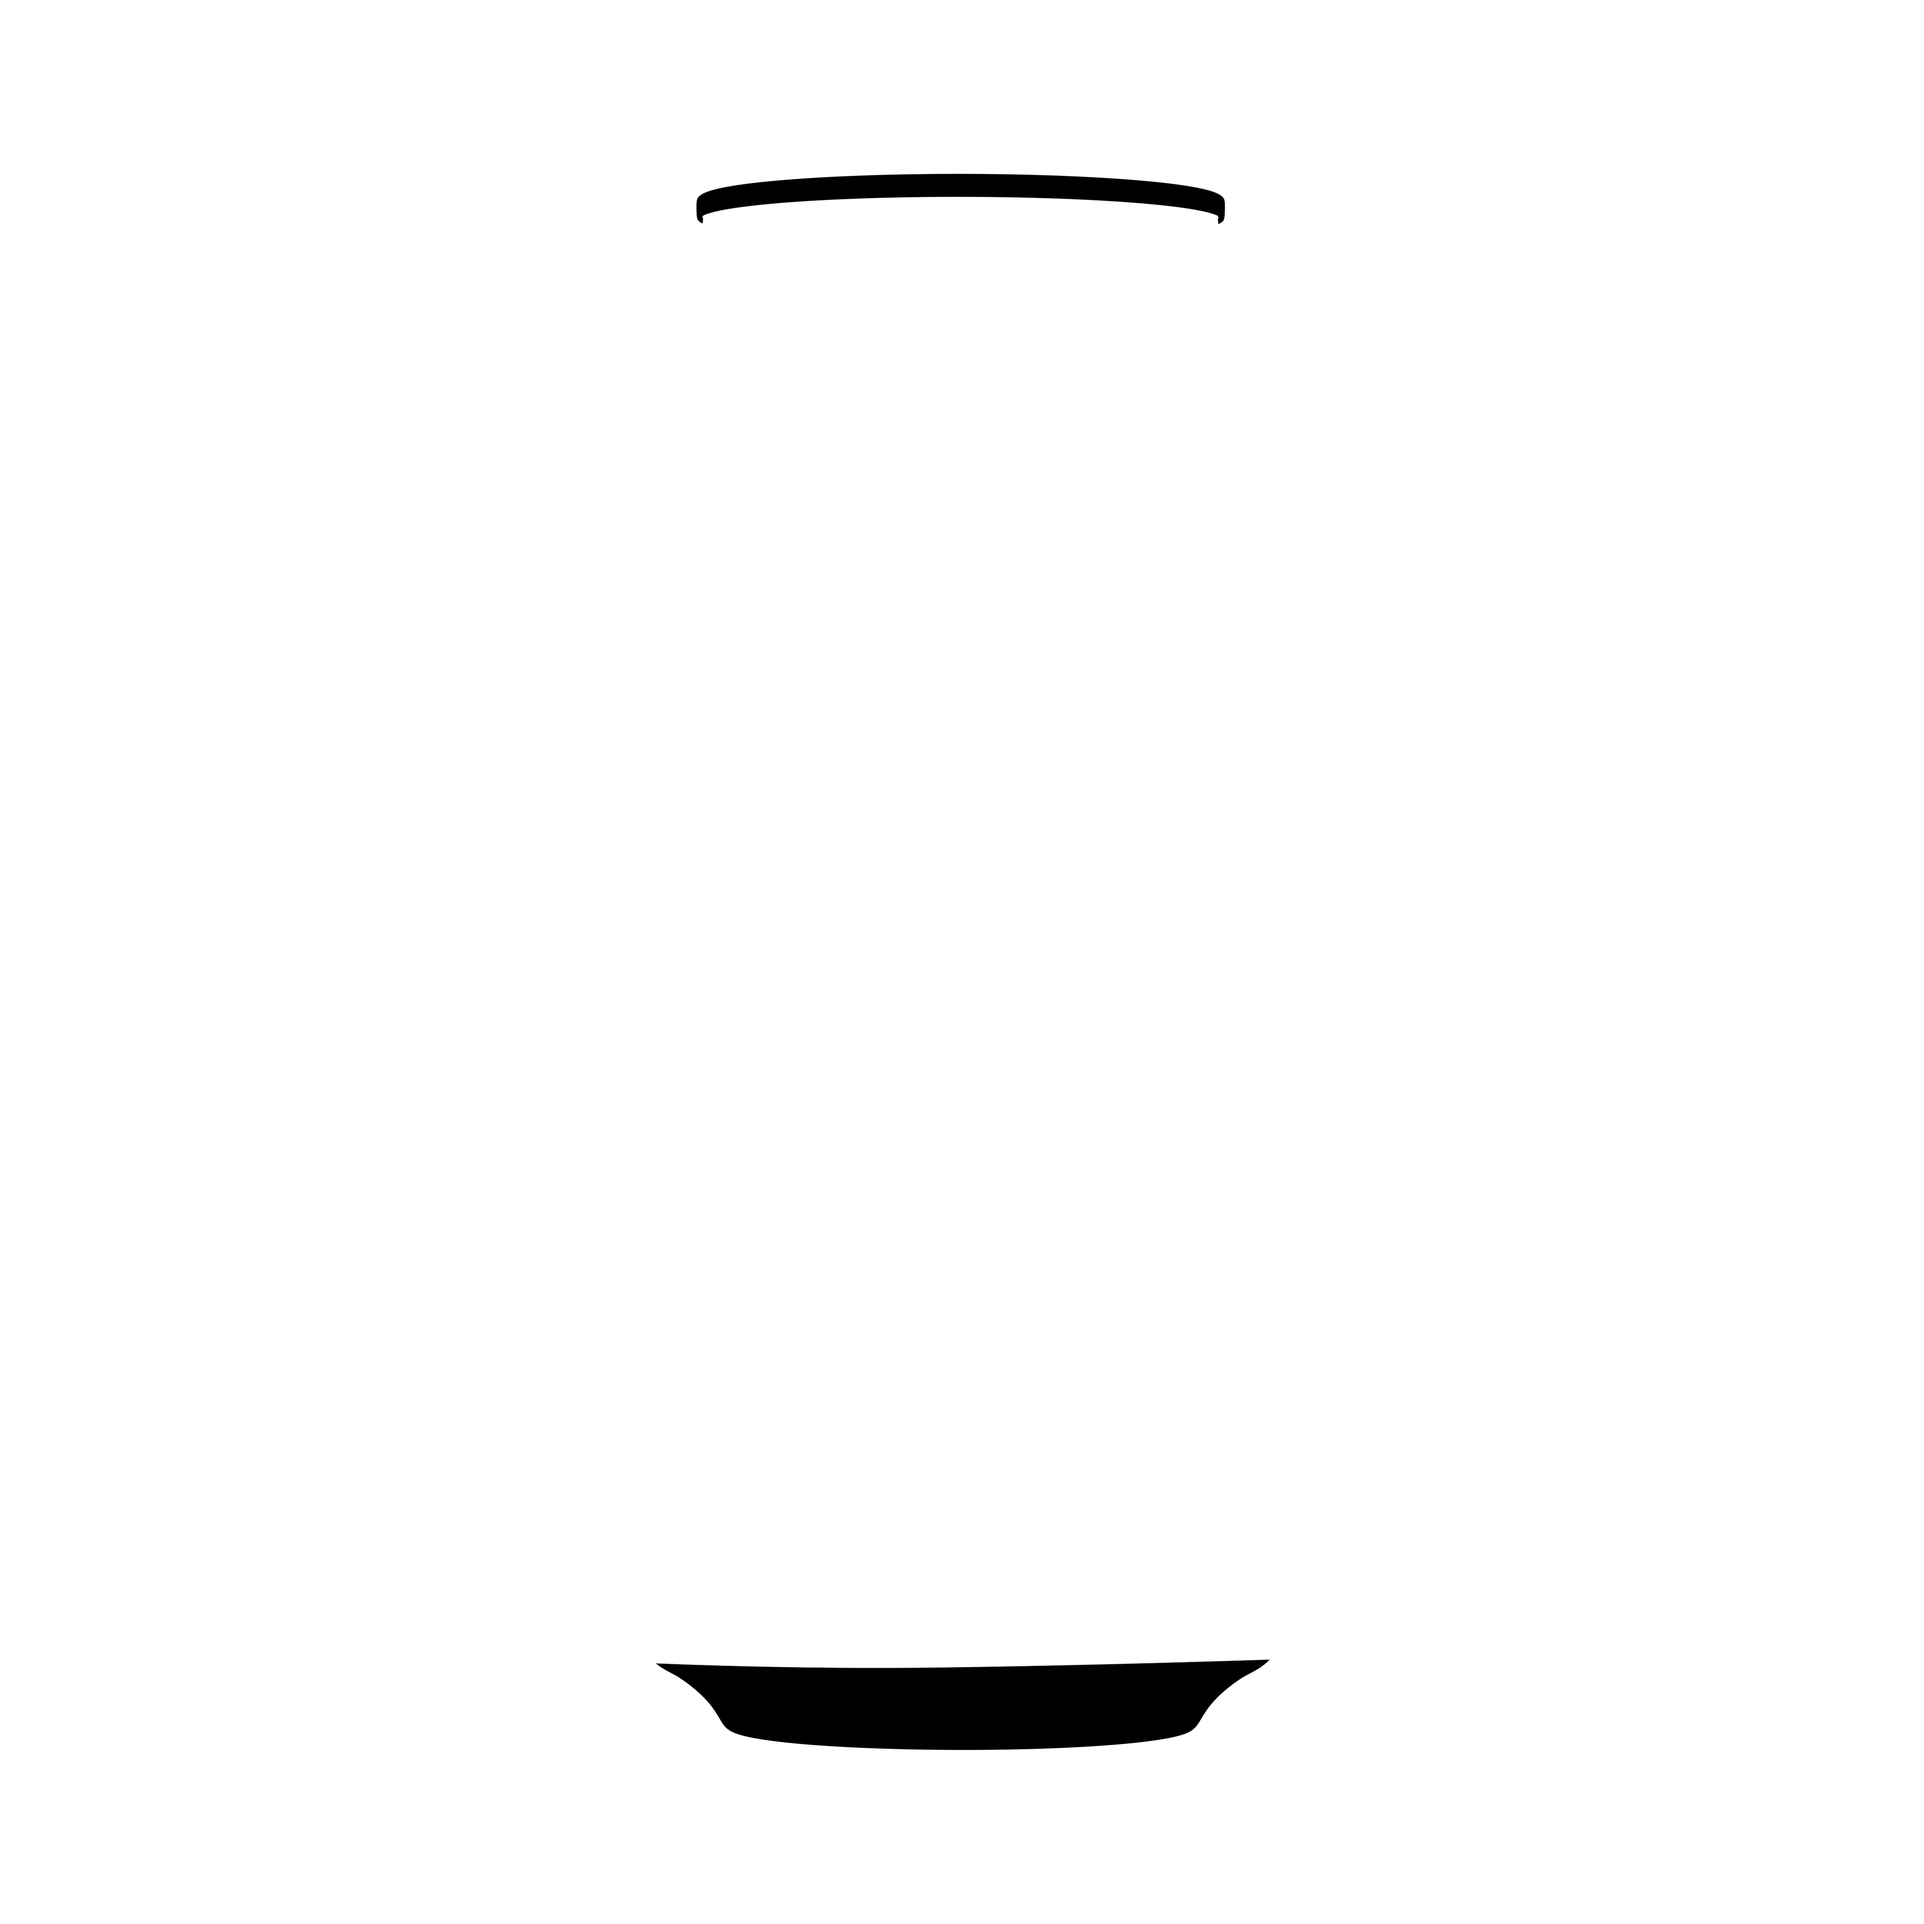
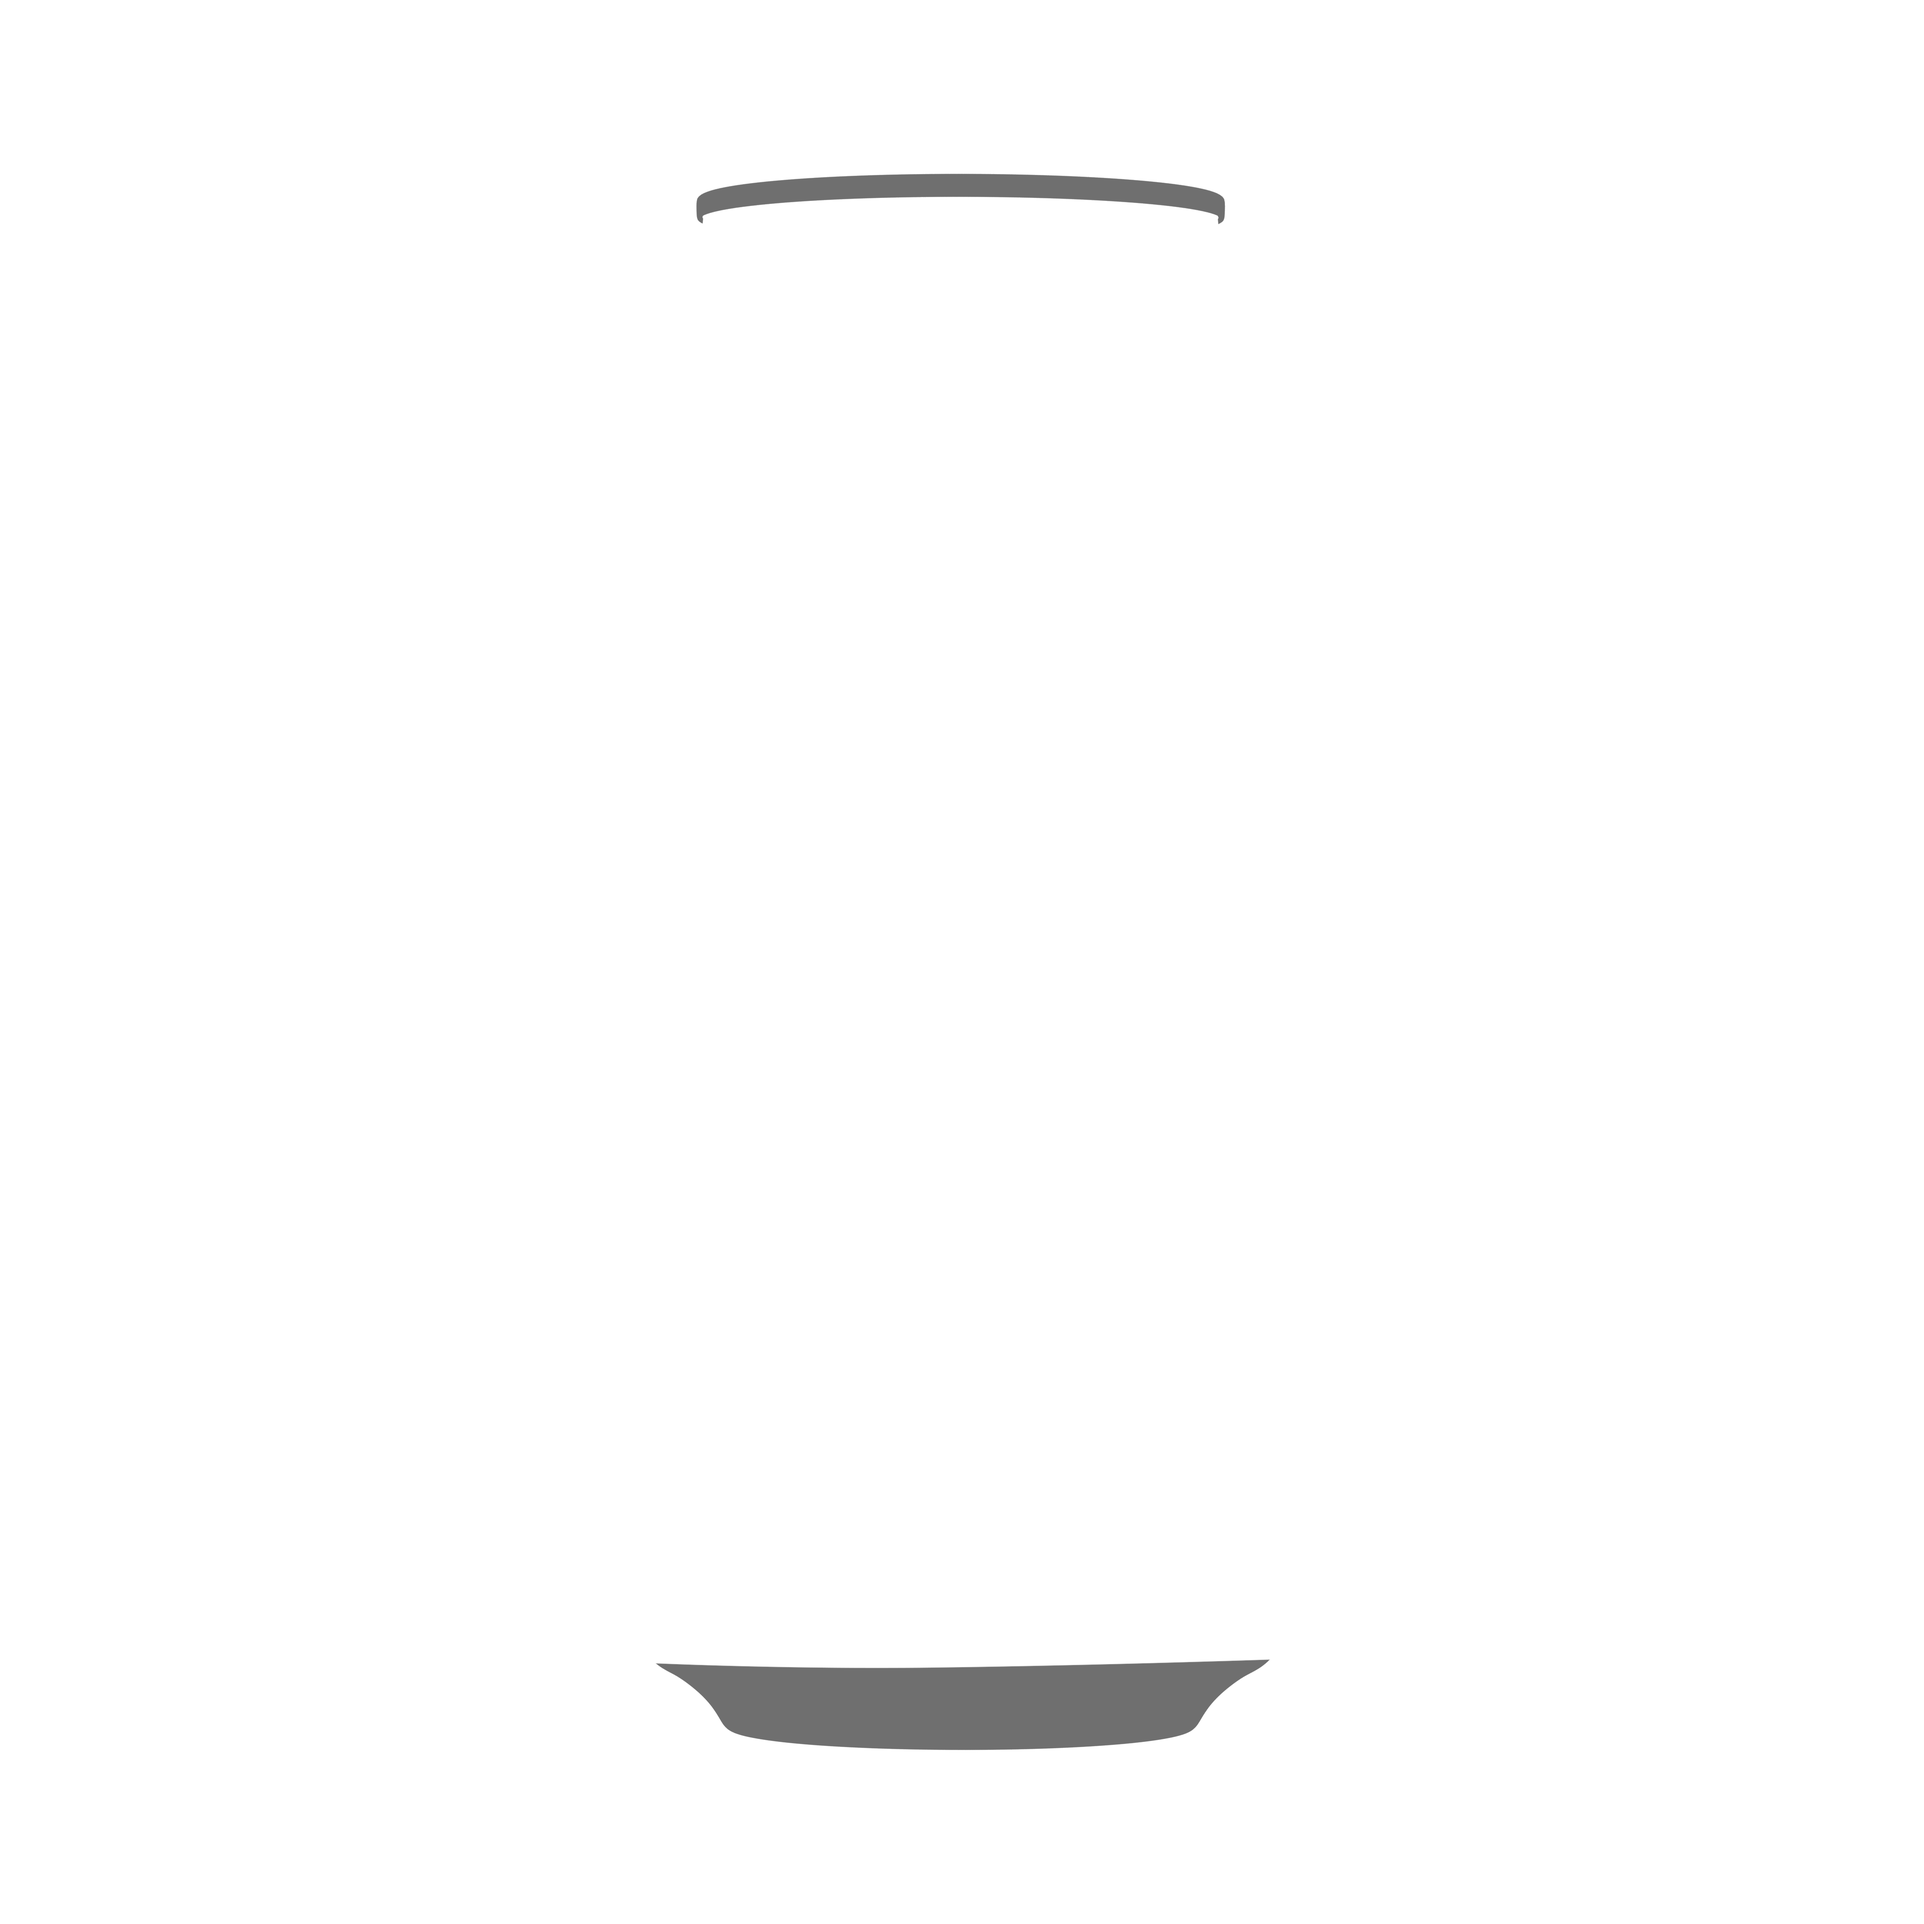
feat: can background

Changed region(s): [[0.3422, 0.84, 0.6533, 0.9333], [0.3422, 0.0933, 0.6533, 0.1244]]

diff --git a/src/components/canConstructor/canBackground.jsx b/src/components/canConstructor/canBackground.jsx
@@ -1,99 +1,59 @@
-export default function CanBackground({ color, className }) {
+import React, { useEffect, useRef } from "react";
+import CanWithWaterImage from "../../assets/images/water.png";
+
+function CanBackground({ color: newColor, className }) {
+  const originalImageRef = useRef(null);
+  const canvasRef = useRef(null);
+  const [src, setSrc] = React.useState("");
+
+  useEffect(() => {
+    const img = new Image();
+    img.src = CanWithWaterImage;
+    img.onload = () => {
+      const canvas = canvasRef.current;
+      const ctx = canvas.getContext("2d");
+
+      canvas.width = img.width;
+      canvas.height = img.height;
+      ctx.drawImage(img, 0, 0);
+
+      const imageData = ctx.getImageData(0, 0, canvas.width, canvas.height);
+      const data = imageData.data;
+
+      const targetR = parseInt(newColor.slice(1, 3), 16);
+      const targetG = parseInt(newColor.slice(3, 5), 16);
+      const targetB = parseInt(newColor.slice(5, 7), 16);
+
+      for (let i = 0; i < data.length; i += 4) {
+        const red = data[i];
+        // Adjust the condition to better define "red" as needed
+        if (red > 10) {
+          data[i] = targetR;
+          data[i + 1] = targetG;
+          data[i + 2] = targetB;
+        }
+      }
+
+      ctx.putImageData(imageData, 0, 0);
+
+      requestAnimationFrame(() => {
+        setSrc(canvasRef.current?.toDataURL());
+      });
+    };
+  }, [newColor]); // Re-run effect when newColor changes
+
   return (
-    <svg
-      className={className}
-      aria-hidden
-      version="1.1"
-      id="Layer_1"
-      xmlns="http://www.w3.org/2000/svg"
-      xmlns:xlink="http://www.w3.org/1999/xlink"
-      x="0px"
-      y="0px"
-      width="100%"
-      viewBox="0 0 1090 1090"
-      enableBackground="new 0 0 1090 1090"
-      xmlSpace="preserve"
-    >
-      <path
-        fill="transparent"
-        opacity="1.000000"
-        stroke="none"
-        d="
-M606.000000,1091.000000 
-	C404.023041,1091.000000 202.546097,1091.000000 1.034572,1091.000000 
-	C1.034572,727.731262 1.034572,364.462555 1.034572,1.096910 
-	C364.227142,1.096910 727.454346,1.096910 1090.840820,1.096910 
-	C1090.840820,364.333282 1090.840820,727.666626 1090.840820,1091.000000 
-	C929.462158,1091.000000 767.981079,1091.000000 606.000000,1091.000000 
-M723.972717,197.695404 
-	C715.527100,182.524246 706.476440,167.647324 698.895020,152.055969 
-	C695.186829,144.430023 693.722717,135.561417 692.223938,127.081863 
-	C691.559509,123.322647 690.613220,121.473228 686.925415,120.982269 
-	C669.692444,118.688011 652.516846,115.821770 635.224792,114.156319 
-	C620.460754,112.734367 605.566162,112.104546 590.729675,112.109032 
-	C551.481506,112.120903 512.233521,112.666771 472.985443,113.000137 
-	C472.485565,113.004387 471.982849,112.975555 471.486206,113.017937 
-	C455.982300,114.341019 440.456116,115.455040 424.985382,117.092812 
-	C417.462128,117.889236 409.947327,119.305305 402.638245,121.234604 
-	C400.614410,121.768806 398.550049,124.925217 397.889099,127.269066 
-	C396.510468,132.157700 397.133209,137.818527 395.025940,142.256180 
-	C387.740051,157.599152 379.890137,172.692535 371.742096,187.600662 
-	C367.228668,195.858719 362.072052,203.580872 362.906189,213.686325 
-	C363.414124,219.839752 362.987122,226.069336 363.001892,232.264664 
-	C363.332764,371.001312 363.747009,509.737823 363.971710,648.474670 
-	C364.120941,740.630554 363.957458,832.786865 364.128052,924.942688 
-	C364.136414,929.457825 365.528778,934.147949 367.122742,938.442505 
-	C369.728943,945.464050 376.699524,944.350708 382.137299,944.831055 
-	C392.503906,945.746643 402.956299,945.778320 413.376923,945.976562 
-	C434.958832,946.387146 456.543732,946.961304 478.126556,946.928162 
-	C507.542847,946.882935 536.959167,946.388428 566.373779,945.970337 
-	C576.794434,945.822266 587.209290,945.299744 597.628479,945.007202 
-	C622.130188,944.319275 646.632019,943.634338 671.135498,943.011719 
-	C686.717896,942.615723 702.307007,942.438416 717.882263,941.867432 
-	C719.833923,941.795959 722.624146,940.375793 723.438171,938.773743 
-	C724.920471,935.856628 725.864807,932.341614 725.901245,929.063416 
-	C726.382751,885.703552 726.931641,842.341675 726.954529,798.980042 
-	C727.058411,602.335999 727.015381,405.691772 726.877075,209.047760 
-	C726.874634,205.525345 725.031677,202.004257 723.972717,197.695404 
-z"
+    <div>
+      <canvas ref={canvasRef} style={{ display: "none" }}></canvas>
+      <img
+        ref={originalImageRef}
+        src={CanWithWaterImage}
+        alt="Canned Water"
+        style={{ display: "none" }}
       />
-      <path
-        fill={color}
-        opacity="1.000000"
-        stroke="none"
-        d="
-M724.010132,198.088989 
-	C725.031677,202.004257 726.874634,205.525345 726.877075,209.047760 
-	C727.015381,405.691772 727.058411,602.335999 726.954529,798.980042 
-	C726.931641,842.341675 726.382751,885.703552 725.901245,929.063416 
-	C725.864807,932.341614 724.920471,935.856628 723.438171,938.773743 
-	C722.624146,940.375793 719.833923,941.795959 717.882263,941.867432 
-	C702.307007,942.438416 686.717896,942.615723 671.135498,943.011719 
-	C646.632019,943.634338 622.130188,944.319275 597.628479,945.007202 
-	C587.209290,945.299744 576.794434,945.822266 566.373779,945.970337 
-	C536.959167,946.388428 507.542847,946.882935 478.126556,946.928162 
-	C456.543732,946.961304 434.958832,946.387146 413.376923,945.976562 
-	C402.956299,945.778320 392.503906,945.746643 382.137299,944.831055 
-	C376.699524,944.350708 369.728943,945.464050 367.122742,938.442505 
-	C365.528778,934.147949 364.136414,929.457825 364.128052,924.942688 
-	C363.957458,832.786865 364.120941,740.630554 363.971710,648.474670 
-	C363.747009,509.737823 363.332764,371.001312 363.001892,232.264664 
-	C362.987122,226.069336 363.414124,219.839752 362.906189,213.686325 
-	C362.072052,203.580872 367.228668,195.858719 371.742096,187.600662 
-	C379.890137,172.692535 387.740051,157.599152 395.025940,142.256180 
-	C397.133209,137.818527 396.510468,132.157700 397.889099,127.269066 
-	C398.550049,124.925217 400.614410,121.768806 402.638245,121.234604 
-	C409.947327,119.305305 417.462128,117.889236 424.985382,117.092812 
-	C440.456116,115.455040 455.982300,114.341019 471.486206,113.017937 
-	C471.982849,112.975555 472.485565,113.004387 472.985443,113.000137 
-	C512.233521,112.666771 551.481506,112.120903 590.729675,112.109032 
-	C605.566162,112.104546 620.460754,112.734367 635.224792,114.156319 
-	C652.516846,115.821770 669.692444,118.688011 686.925415,120.982269 
-	C690.613220,121.473228 691.559509,123.322647 692.223938,127.081863 
-	C693.722717,135.561417 695.186829,144.430023 698.895020,152.055969 
-	C706.476440,167.647324 715.527100,182.524246 724.010132,198.088989 
-z"
-      />
-    </svg>
+      <img className={className} src={src} alt="Modified Image" />
+    </div>
   );
 }
+
+export default CanBackground;

diff --git a/src/components/canConstructor/canView.jsx b/src/components/canConstructor/canView.jsx
@@ -15,6 +15,7 @@ const canEdgesImage = {
 export default function CanView({ canColor, stickerColor }) {
   const canColorName = CAN_COLOR_LABEL_MAP[canColor];
   const linkToCap = canEdgesImage[canColorName];
+
   return (
     <div className="soda-container" aria-label="customized soda can">
       {linkToCap && (
@@ -24,7 +25,10 @@ export default function CanView({ canColor, stickerColor }) {
           className="soda-layer coda-caps-colored"
         />
       )}
-      <CanBackground color={stickerColor} className="soda-layer label-color" />
+      <CanBackground
+        color={stickerColor}
+        className="soda-layer can-background"
+      />
       <img
         src={shadowsImage}
         aria-hidden
@@ -33,7 +37,7 @@ export default function CanView({ canColor, stickerColor }) {
       />
       <div
         className="place-holder-to-keep-object-size"
-        style={{ width: 700, height: 700 }}
+        style={{ width: 600, height: 600 }}
         aria-hidden
       ></div>
     </div>

diff --git a/src/components/canConstructor/canControls.jsx b/src/components/canConstructor/canControls.jsx
@@ -128,7 +128,7 @@ export default function CanControls({
       <div className="c-color-picker-group">
         <div>
           <ColorPicker
-            colors={["#FDFDFD", "#050006", "#FACC15"]}
+            colors={["#FDFDFD", "#0C0C0C", "#FACC15"]}
             onChange={handleChangeColor(setCanColor, onChangeCanColor)}
             label="CAN COLOR"
             valueLabel={CAN_COLOR_LABEL_MAP[canColor]}
@@ -145,7 +145,7 @@ export default function CanControls({
               "#4ADE80",
               "#2DD4BF",
               "#3B82F6",
-              "#050006",
+              "#0C0C0C",
               "#F43F5E",
               "#D946EF",
               "#8B5CF6",
@@ -169,7 +169,7 @@ export default function CanControls({
               "#4ADE80",
               "#2DD4BF",
               "#3B82F6",
-              "#050006",
+              "#0C0C0C",
               "#F43F5E",
               "#D946EF",
               "#8B5CF6",

diff --git a/src/components/canConstructor/canView.css b/src/components/canConstructor/canView.css
@@ -11,7 +11,7 @@
   top: 0;
   left: -195px;
   width: 640px;
-  height: 100%;
+  height: 640px;
 }
 
 .shadows-layer {
@@ -20,10 +20,13 @@
   mix-blend-mode: multiply;
 }
 
-.label-color {
-  top: -31px;
-}
-
 .coda-caps-colored {
   height: 640px;
+  width: 658px;
+  left: -204px;
+}
+
+.can-background {
+  height: 642px;
+  top: -1px;
 }

diff --git a/src/components/canConstructor/fileUploadButton/fileUploadButton.jsx b/src/components/canConstructor/fileUploadButton/fileUploadButton.jsx
@@ -55,7 +55,6 @@ function FileUpload({ label, onFileUpload }) {
       />
       <Button
         variant="contained"
-        // startIcon={<FileUploadIcon />}
         onClick={() => document.getElementById(fileUploadInputId).click()}
         sx={{ mt: 0 }}
         style={{ height: BASE_ELEMENT_HEIGHT }}

diff --git a/src/components/const.js b/src/components/const.js
@@ -1,5 +1,5 @@
 export const CAN_COLOR_LABEL_MAP = {
   "#FDFDFD": "Silver",
-  "#050006": "Black",
+  "#0C0C0C": "Black",
   "#FACC15": "Gold",
 };
